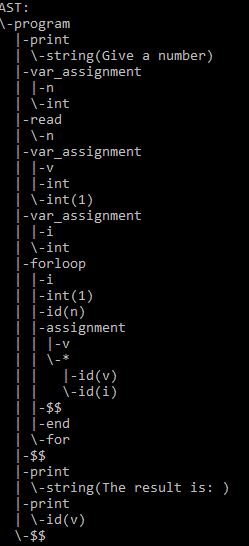
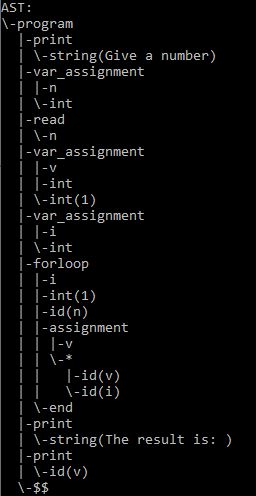
update asts

diff --git a/src/MiniPLInterpreter/Parser/MiniPLParser.cs b/src/MiniPLInterpreter/Parser/MiniPLParser.cs
@@ -279,7 +279,7 @@ namespace MiniPLInterpreter.Parser
             miniPLHelper.checkTokenThrowsMiniPLError(shouldBeForToken, "for");
             NextToken();
             checkCurrentTokenIsRowsEndOfLine(shouldBeForToken.row);
-            loopNode.children.Add(new Node<string>("for"));
+
             if (forLoopIndex > 0)
             {
                 symbolTable.Remove(forLoopIndex);
